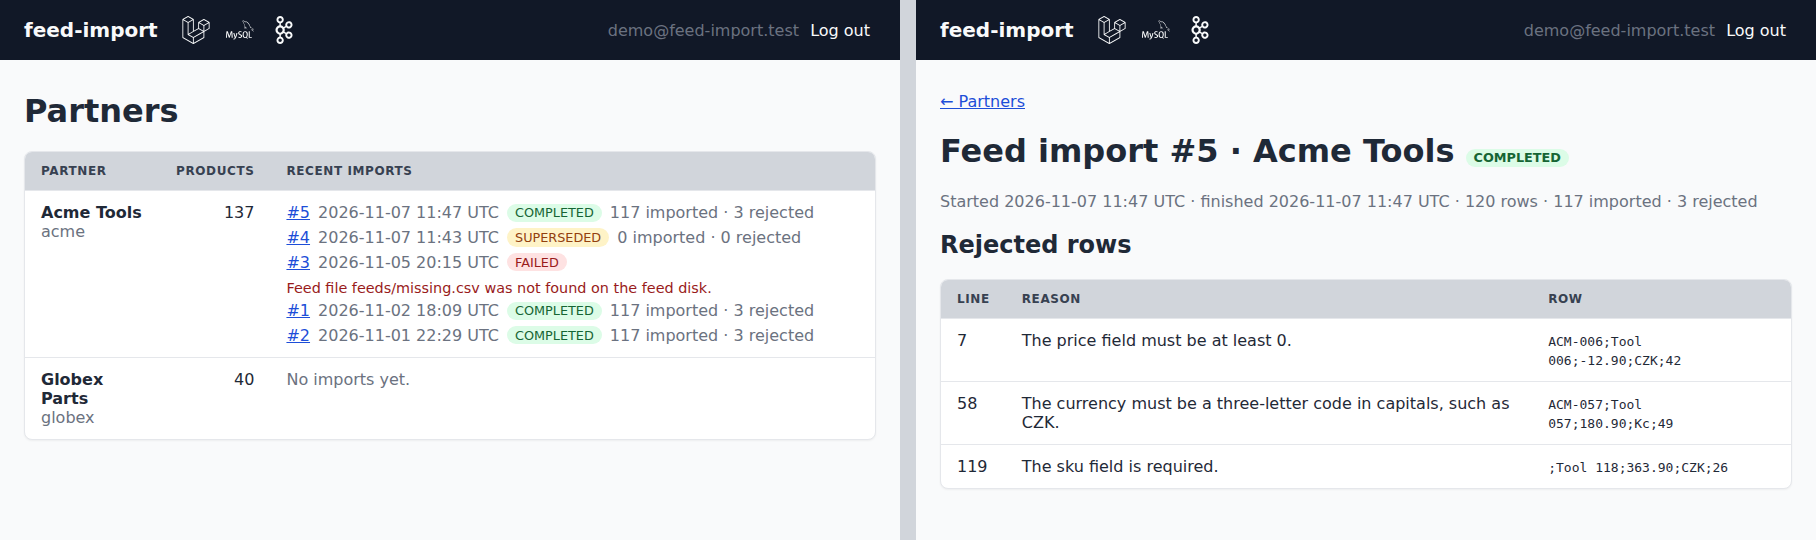
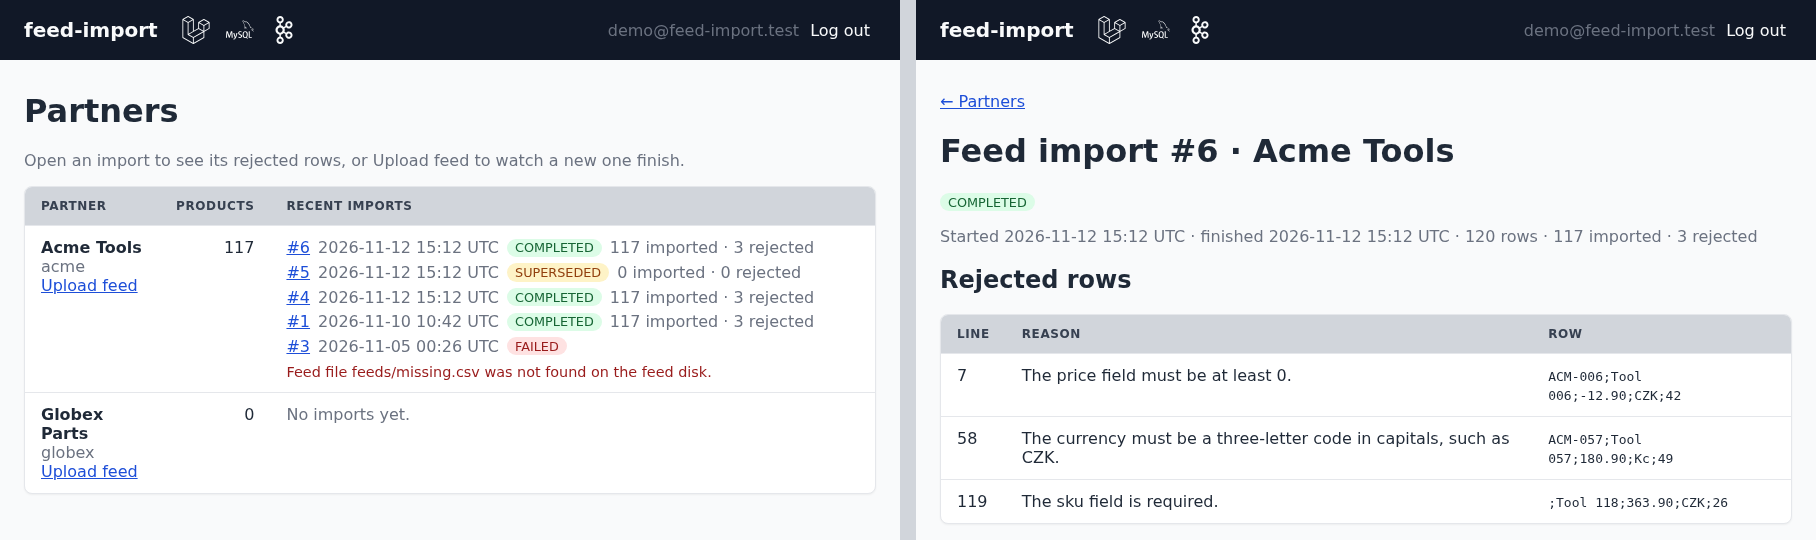
docs: describe the upload form and the Vue component in the README, with a new screenshot

diff --git a/README.md b/README.md
@@ -8,10 +8,10 @@ bad row is set aside without stopping the import. 100 000 products import in 26 
 prices changed sends 1 000 messages, not 100 000.
 
 A queued job validates the upload and upserts changed products in chunks, a separate worker publishes them, and a
-consumer keeps a price history in its own database under its own MySQL user, sharing only the topic. Two Blade
-pages show partners, imports and rejected rows.
+consumer keeps a price history in its own database under its own MySQL user, sharing only the topic. Blade pages
+show partners and imports, upload a feed and show an import finishing, its rejected rows included.
 
-![Partners with their recent imports, one of them superseded by a newer feed and one failed; one import opened with three rejected rows](docs/screenshot.png)
+![Partners with their recent imports, one of them superseded by a newer feed and one failed, and a link to upload a feed in each row; one import opened with three rejected rows](docs/screenshot.png)
 
 **Example: a partner changes one price.** `make demo-change` re-imports the sample feed (117 valid products) with
 ACM-001 cut from 12.90 to 9.90 CZK. The terminal output below shows the three steps:
@@ -78,7 +78,7 @@ Needs git, Docker Compose and GNU Make.
 git clone https://github.com/typllukas/feed-import.git && cd feed-import && make setup
 ```
 
-Setup takes about two and a half minutes from a fresh clone plus the base image downloads; `make help` lists the
+Setup takes a little under three minutes from a fresh clone plus the base image downloads; `make help` lists the
 other targets. GNU Make is optional: every target is a few `docker compose` commands, which can be run by hand from
 the [`Makefile`](Makefile).
 
@@ -90,12 +90,14 @@ In this order; each step shows one part of the design:
   (`database/seeders/feeds/acme.csv`) with its bad rows set aside, publishes every product and consumes them into
   the price history.
 - **The pages** at <http://localhost:8084>, login prefilled: **what an operator sees.** Each partner's recent
-  imports with their status and counts, a failed one with its reason; open an import for its rejected rows, each
-  with the line number, the reason and the original line.
+  imports with their status and counts, a failed one with its reason; "Upload feed" in a partner's row comes with
+  the sample feed already chosen and opens the new import, which finishes on the page without a reload, its
+  rejected rows each with the line number, the reason and the original line.
 - `make demo-change`, after it: **only changes go out.** The same feed again with one price changed gives one
   message and one new history row (the example above).
 - `make consume-group`: **Kafka splits the work.** Two consumers in one group share the three partitions; when the
-  first stops after 10 s, the second takes all three over.
+  first stops after 10 s, the second takes all three over. The earlier steps have read the topic already, so both
+  report 0 messages; what moves is the partitions.
 - `make scale`: **the measurements below.** Imports 100 000 generated products, then the same feed with 1 % of
   prices changed, and prints how long each job took.
 
@@ -180,19 +182,28 @@ in both directions.
   with a higher version the consumer accepts.
 - **Broker unreachable**: not a failure of the import, see the outbox.
 
+## A Vue component in a Blade page
+
+The pages stay Blade. Only the part that changes while you watch, an import finishing and its rejected rows, is a
+Vue component, [`FeedImportResult`](resources/js/components/FeedImportResult.vue). This is how a server-rendered app
+takes on Vue one widget at a time, without a rewrite into a single-page app, Inertia or Livewire. The component's
+JSON routes sit behind the same session login, so no API token reaches the browser. [`app.ts`](resources/js/app.ts)
+validates the props the page hands over, and CI runs the component's type check and tests beside the PHP ones.
+
 ## Production and checks
 
-`docker/php/Dockerfile` builds the dev image and, from one build, two production images: `production` (php-fpm or
-either worker, no dev packages, code read-only except `storage` and `bootstrap/cache`) and `web` (nginx with
-`public/`). A deployment runs the migrations once per release, since the containers don't on start, shares
-`storage/app` between php-fpm and the importer, and gives workers a stop grace period above their job timeout
+`docker/php/Dockerfile` builds the dev image, a Node stage for the assets and, from one build, two production images:
+`production` (php-fpm or either worker, no dev packages, code read-only except `storage` and `bootstrap/cache`) and
+`web` (nginx with `public/`). A deployment runs the migrations once per release, since the containers don't on start,
+shares `storage/app` between php-fpm and the importer, and gives workers a stop grace period above their job timeout
 (330 s for the importer), where orchestrators often default to 30 s.
 
-`make check` is the CI gate: Pint, Larastan level 10 and Pest against real MySQL and Kafka. Architecture tests hold
-the import's single entry point and the consumer's boundary. Broker tests run against real Kafka: one key stays on
-one partition in order and lands where the Java client puts it, a group splits the partitions, a duplicate is
-recorded once, and an unreadable message stops the consumer without committing past it. The deadlock guard is not
-tested. CI also builds both production images and serves `/up` through them.
+`make check` is the CI gate: Pint, Larastan level 10, Pest against real MySQL and Kafka, and the component's type
+check, ESLint and Vitest tests (`make js`, run in a Node container). Architecture tests hold the import's single entry point
+and the consumer's boundary. Broker tests run against real Kafka: one key stays on one partition in order and lands
+where the Java client puts it, a group splits the partitions, a duplicate is recorded once, and an unreadable message
+stops the consumer without committing past it. The deadlock guard is not tested. CI also builds both production
+images and serves `/up` through them.
 
 ## Limits
 
